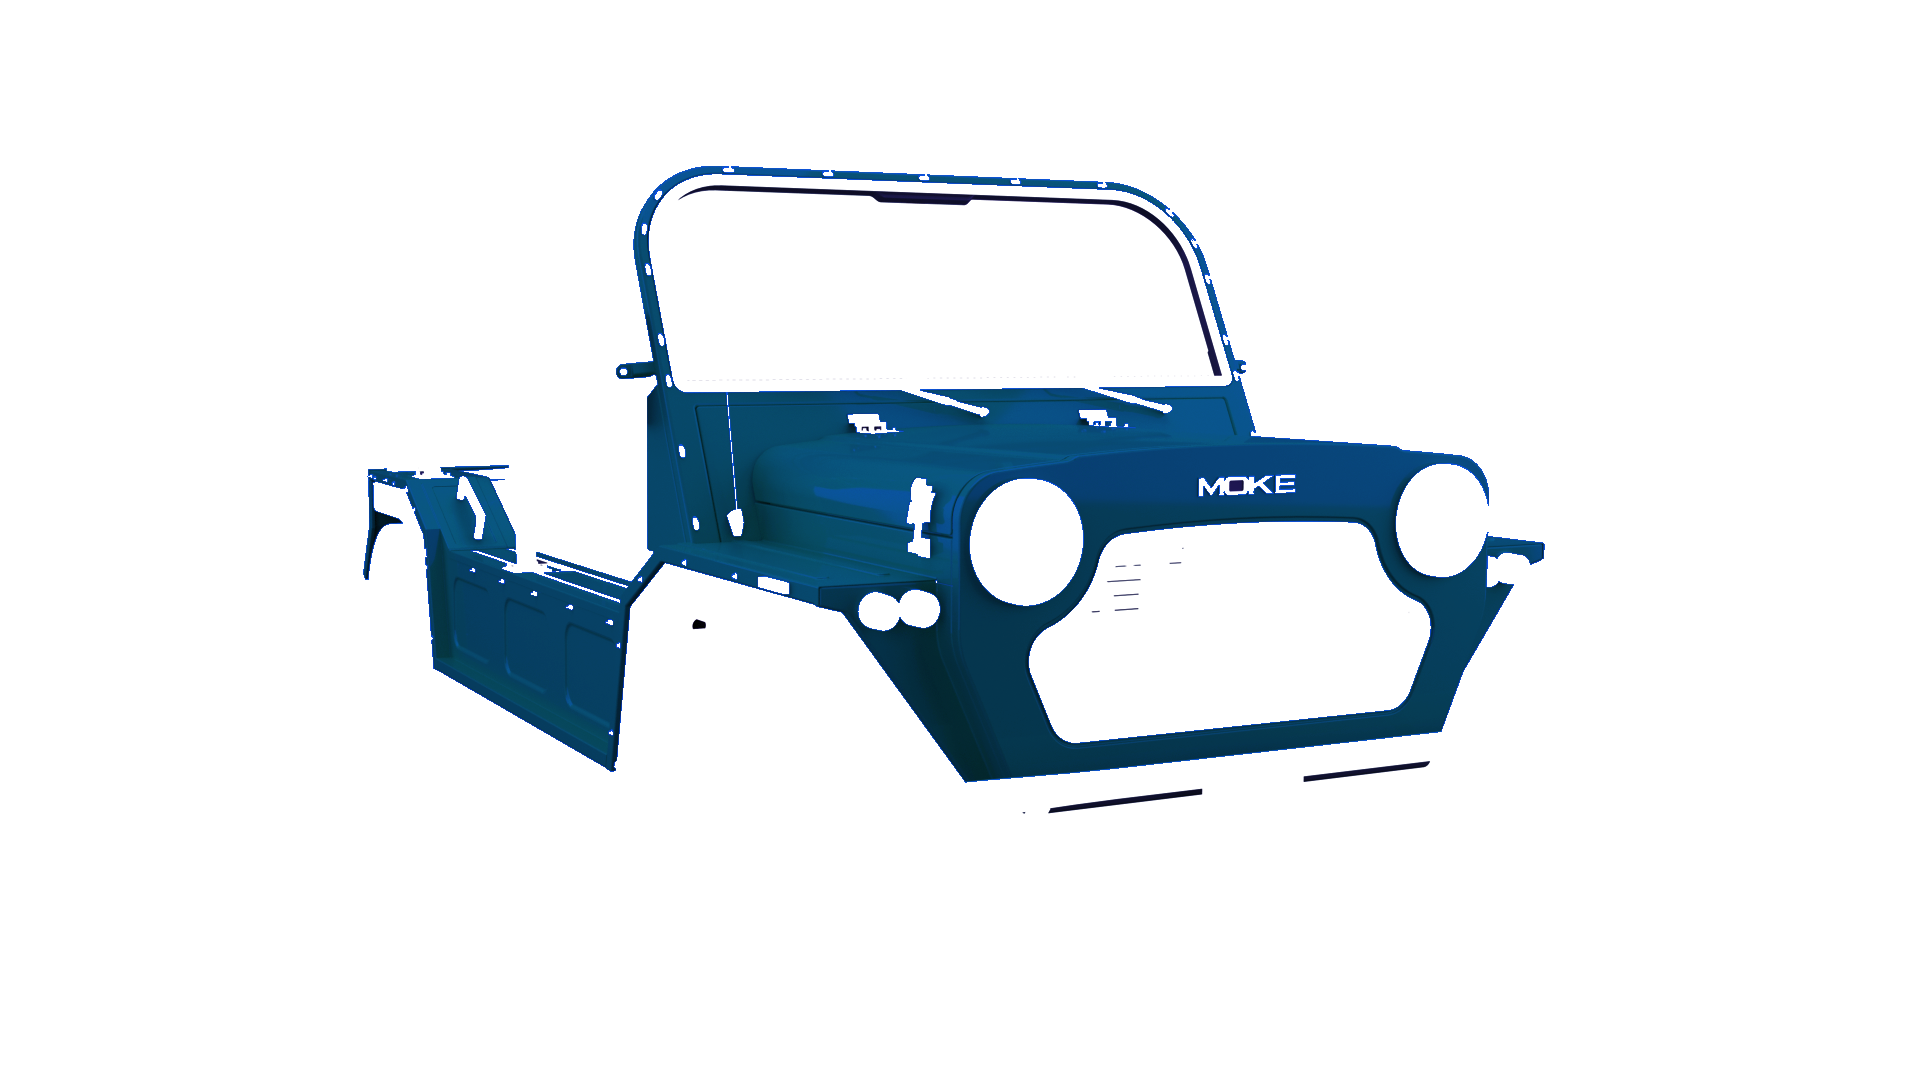
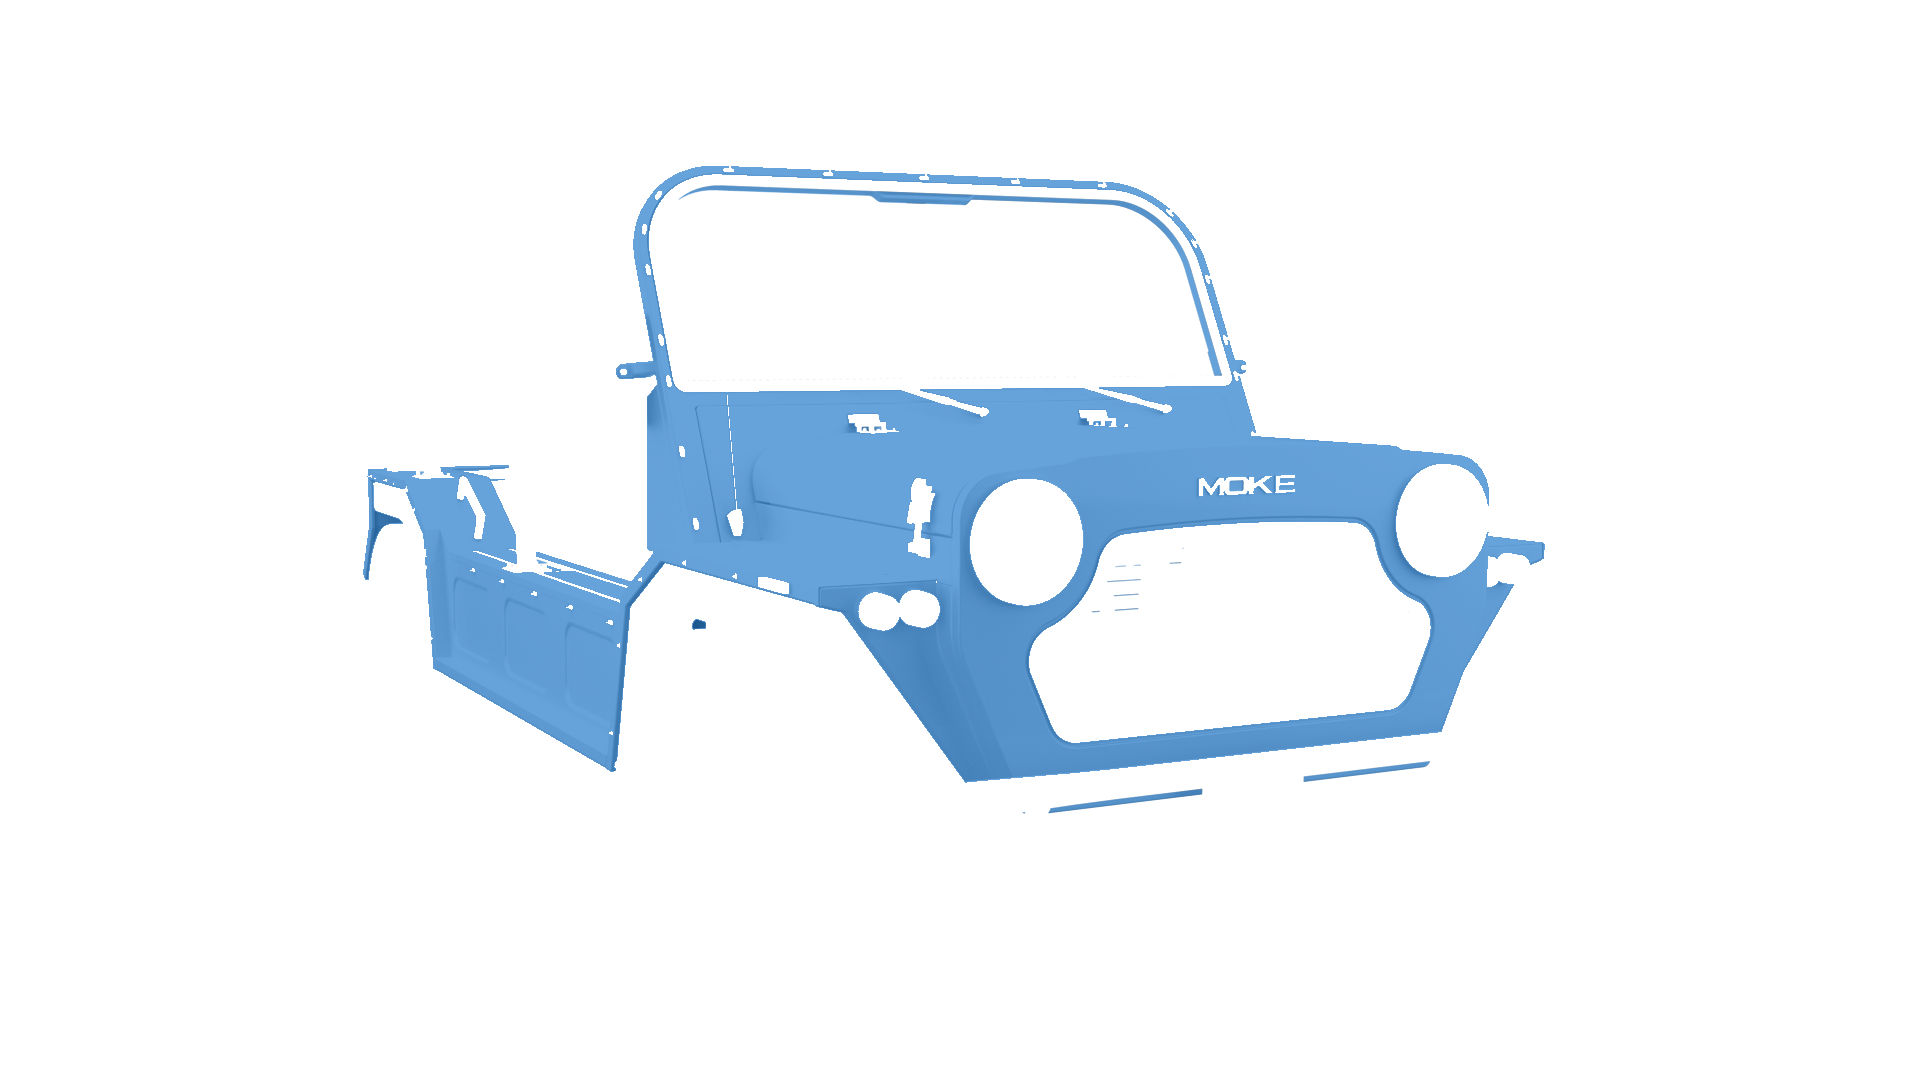
546

Changed region(s): [[0.1875, 0.1528, 0.8125, 0.7639]]

diff --git a/src/components/ColorPallete.js b/src/components/ColorPallete.js
@@ -9,21 +9,37 @@ export const grill = "grill"
 
 function ColorPallete() {
 
-  const bodyColor = "" 
+  const parts = ["body", "grill", "rollbar"];
+  const [myPart, setMyPart] = useState("")
 
-    const afterClick = (e) =>{
-    
-      // console.log(e.target.id) 
-      // bodyColor = e.target.id;
+  const bodyColor = "" 
+  
+  const whatShow = ()=>{
+    setShow(false)
+  } 
+
+    const afterClickBody = (e) =>{
     setBody(e.target.id)
-       
-          
+     
     }
-      // console.log(bodyColor)
+
+    const afterClickGrill = (e) =>{
+      
+      setGrill(e.target.id)
+          
+      }
+    const afterClickRollbar = (e) =>{
+   
+        setRollbar(e.target.id)          
+        }
+
 
     const [body, setBody] = useState("Black")
 
-          //  console.log(body)
+    const [grill, setGrill] = useState("Black")
+
+    const [ rollbar, setRollbar] = useState("Black")
+ 
     const [show, setShow] = useState(true)
     
   return (
@@ -36,8 +52,8 @@ function ColorPallete() {
     <div className="default-car-container">        
         <img className="image2" src="./images/moke pics/body/b-base.png" width={"300px"}/>
         <img className="image2" src={`./images/moke pics/body/b-${body}.png`} width={"300px"}/>
-        <img className="image2" src="./images/moke pics/grill/g-black.png" width={"300px"}/>
-        <img className="image2" src="./images/moke pics/roll/r-black.png" width={"300px"}/>
+        <img className="image2" src={`./images/moke pics/grill/g-${grill}.png`} width={"300px"}/>
+        <img className="image2" src={`./images/moke pics/roll/r-${rollbar}.png`} width={"300px"}/>
         <img className="image2" src="./images/moke pics/seat/s-test.png" width={"300px"}/>
         <img className="image2" src="./images/moke pics/wheel/w-black.png" width={"300px"}/>
         <img className="image2" src="./images/moke pics/bumper/p-black.png" width={"300px"}/>
@@ -47,43 +63,117 @@ function ColorPallete() {
     </>
           {/* <DefaultCar body={body}/> */}
       </div>
-      {show? 
+      
       <div className="border">
-      <div className='container-title'>
-          <h1>BODY COLOR</h1>
+      
+        <div className='container-title'>
+          <div className="row w-100">
+                <div className="col mb-3 col-12 text-center">
+                    <h2>Select the part you want t</h2>
+                    <br />
+                    <div
+                        className="btn-group"
+                        role="group"
+                        aria-label="Basic example"
+                    >
+                        {parts.map(part => (
+                            <button
+                                type="button"
+                                key={part}
+                                className={"btn btn-light border-dark "}
+                                onClick={() => setMyPart(part)}
+                            >
+                                {part.toLocaleUpperCase()}
+                            </button>
+                        ))}
+                    </div>
+                </div>
+
+                <div className="col text-center">
+                    <p>{myPart}</p>
+
+                    <div>
+                        {myPart === "body" && (
+                            <div className="container-moke">
+                            {ColorsData.map((color,background) =>{
+                                  return(
+                                    <div className="card-moke">
+                                      <div className="box-moke"
+                                        key={color.color+body}
+                                        id={color.color} 
+                                       
+                                        onClick={afterClickBody}
+                                        style={{background : color.background}}>
+                                      </div>
+                                  <p>{color.color}</p>
+                                </div>  
+                                      
+                                      )
+                                    })}
+                              </div> 
+                        )}
+                        {myPart === "grill" && (
+                            <div className="container-moke">
+                            {ColorsData.map((color,background) =>{
+                                  return(
+                                    <div className="card-moke">
+                                      <div className="box-moke"
+                                        key={color.color+body}
+                                        id={color.color} 
+                                       
+                                        onClick={afterClickGrill}
+                                        style={{background : color.background}}>
+                                      </div>
+                                  <p>{color.color}</p>
+                                </div>  
+                                      
+                                      )
+                                    })}
+                              </div> 
+                        )}
+                        {myPart === "rollbar" && (
+                            <div className="container-moke">
+                            {ColorsData.map((color,background) =>{
+                                  return(
+                                    <div className="card-moke">
+                                      <div className="box-moke"
+                                        key={color.color+body}
+                                        id={color.color} 
+                                       
+                                        onClick={afterClickRollbar}
+                                        style={{background : color.background}}>
+                                      </div>
+                                  <p>{color.color}</p>
+                                </div>  
+                                      
+                                      )
+                                    })}
+                              </div> 
+                        )}
+                        
+                    </div>
+                </div>
+            </div>
       </div>
        
-      <div className="container-moke">
+      
+        
 
-      {ColorsData.map((color,background) =>{
-            return(
-              <div className="card-moke">
-                <div className="box-moke"
-                  key={color.color+body}
-                  id={color.color} 
-                 
-                  onClick={afterClick}
-                  style={{background : color.background}}>
-                </div>
-            <p>{color.color}</p>
-          </div>  
-                
-                )
-              })}
-        </div>
-
-      </div>:<Grill/>}
+      </div>
   </div>
+
+  
 
   <div className="pagination-container">
             <a href="#" class="previous" onClick={() => 
               setShow(true)}>&laquo; Previous</a>
 
 
-            <a href="#" class="next" onClick={() => setShow(false)}>Next &raquo;</a>
+            <a href="#" class="next" onClick={whatShow}>Next &raquo;</a>
         </div>
     </>
   )
+  
 }
 
 export default ColorPallete

diff --git a/src/components/ColorPallete.css b/src/components/ColorPallete.css
@@ -68,7 +68,7 @@
 
 .container-moke .card-moke {
   /* background-color: purple; */
-  width: 135px;
+  width: 125px;
   padding: 3px; 
   display: flex;
   flex-wrap: wrap;
@@ -143,3 +143,40 @@ a:hover {
   word-spacing:0px; 
 }
 
+.btn-group {
+  font-family: Montserrat, sans-serif;
+  /* position: relative; */
+  /* display: -ms-inline-flexbox; */
+  display: inline-flex;
+  /* vertical-align: middle; */
+}
+
+[type=button]:not(:disabled), [type=reset]:not(:disabled), [type=submit]:not(:disabled), button:not(:disabled) {
+  cursor: pointer;
+}
+.border-dark {
+  border-color: #343a40!important;
+}
+.btn-light {
+  color: #212529;
+  background-color: #f8f9fa;
+  border-color: #f8f9fa;
+}
+
+.btn  {
+  /* display: inline-block; */
+  /* font-family: Montserrat, sans-serif; */
+  font-weight: 400;
+  color: #212529;
+  text-align: center;
+  background-color: transparent;
+  border: 1px solid transparent;
+  padding: 0.375rem 0.75rem;
+  font-size: .7rem;
+  line-height: 1.5;
+  border-radius: 0.25rem;
+  transition: color .15s ease-in-out,background-color .15s ease-in-out,border-color .15s ease-in-out,box-shadow .15s ease-in-out;
+}
+button, select {
+  text-transform:uppercase;
+}
